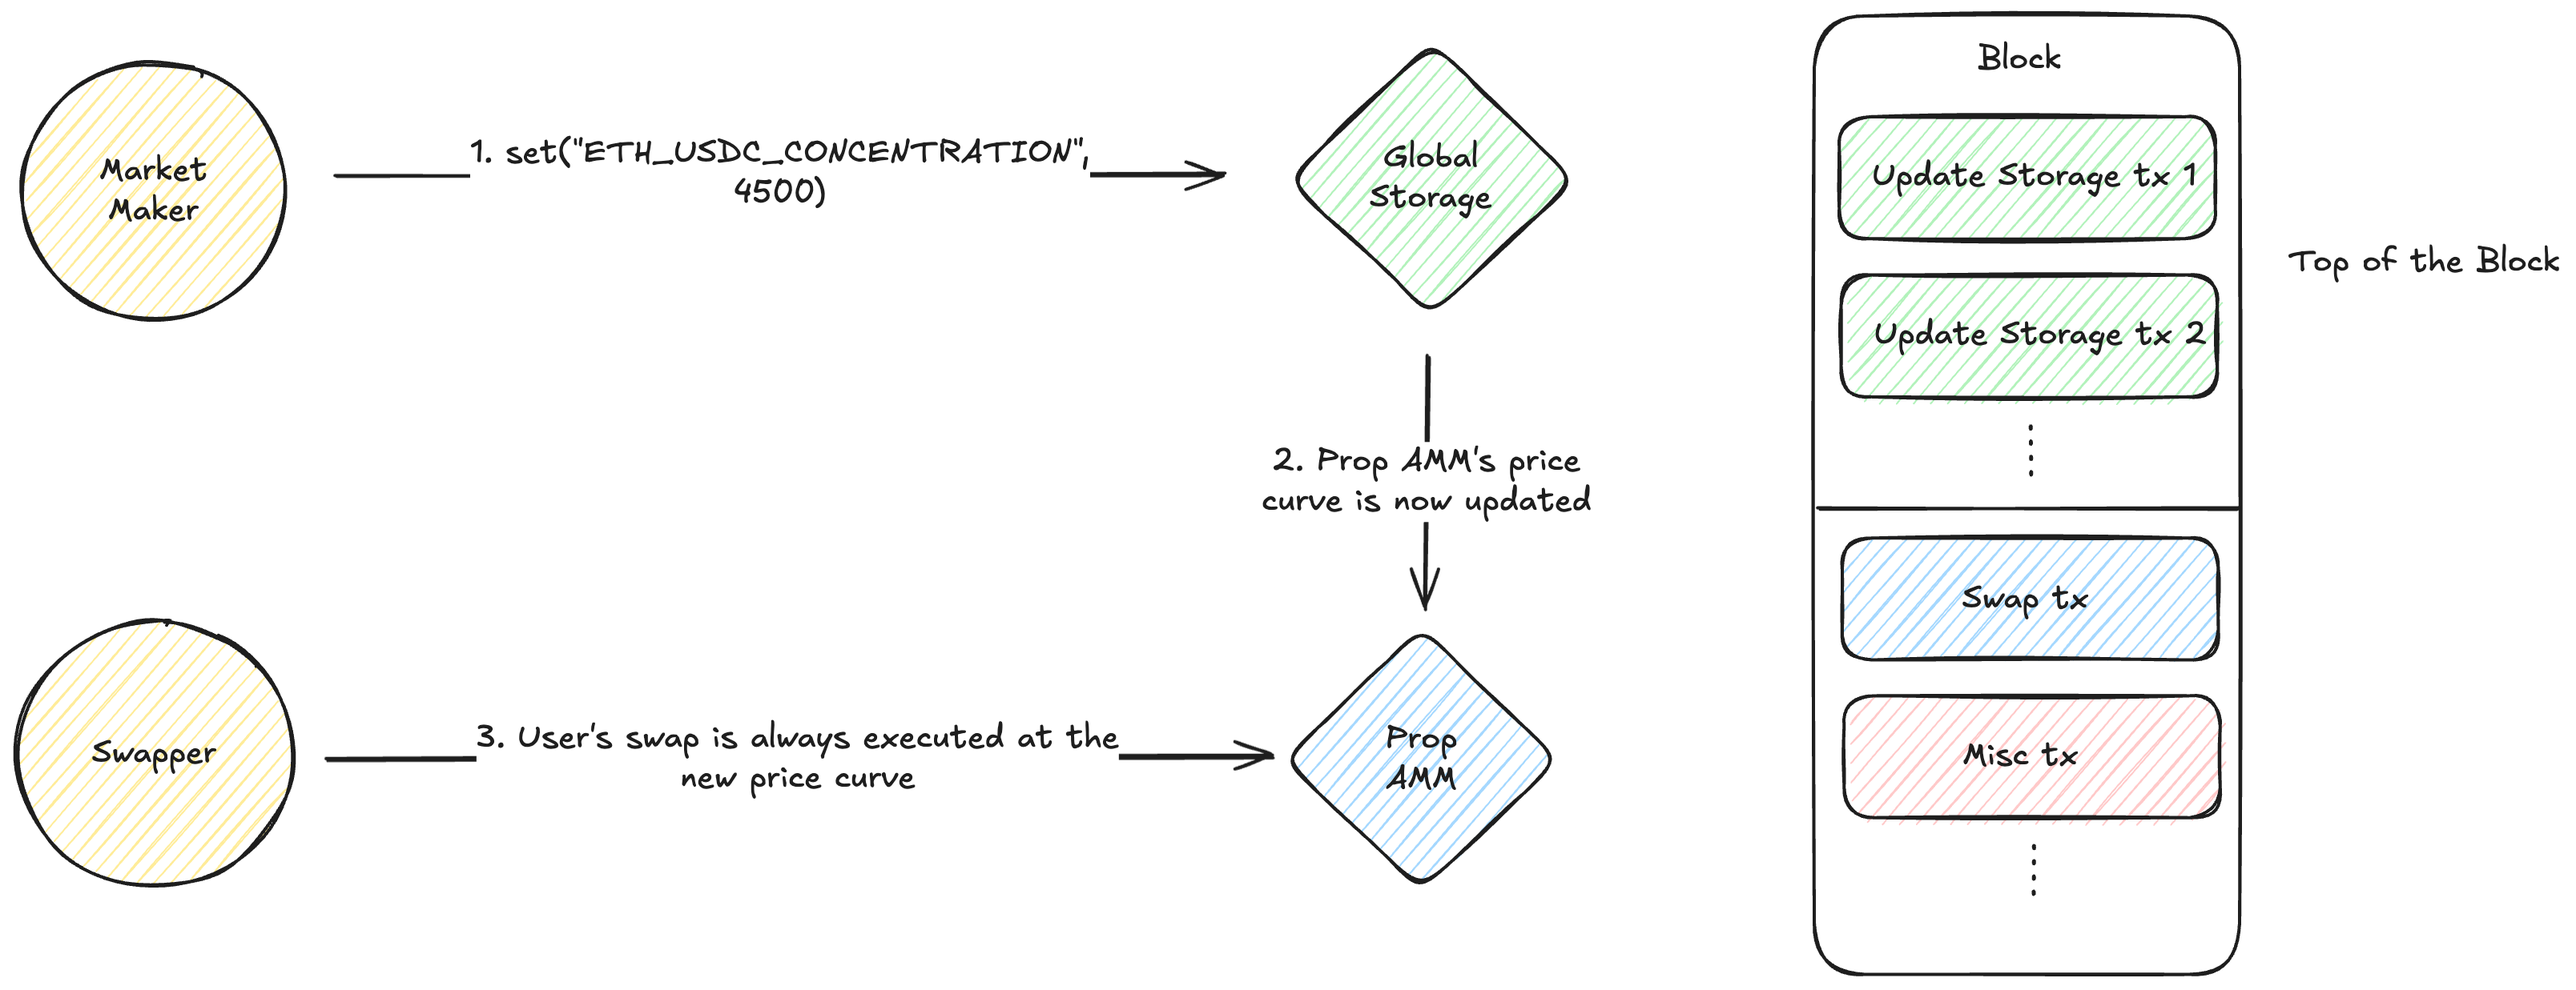
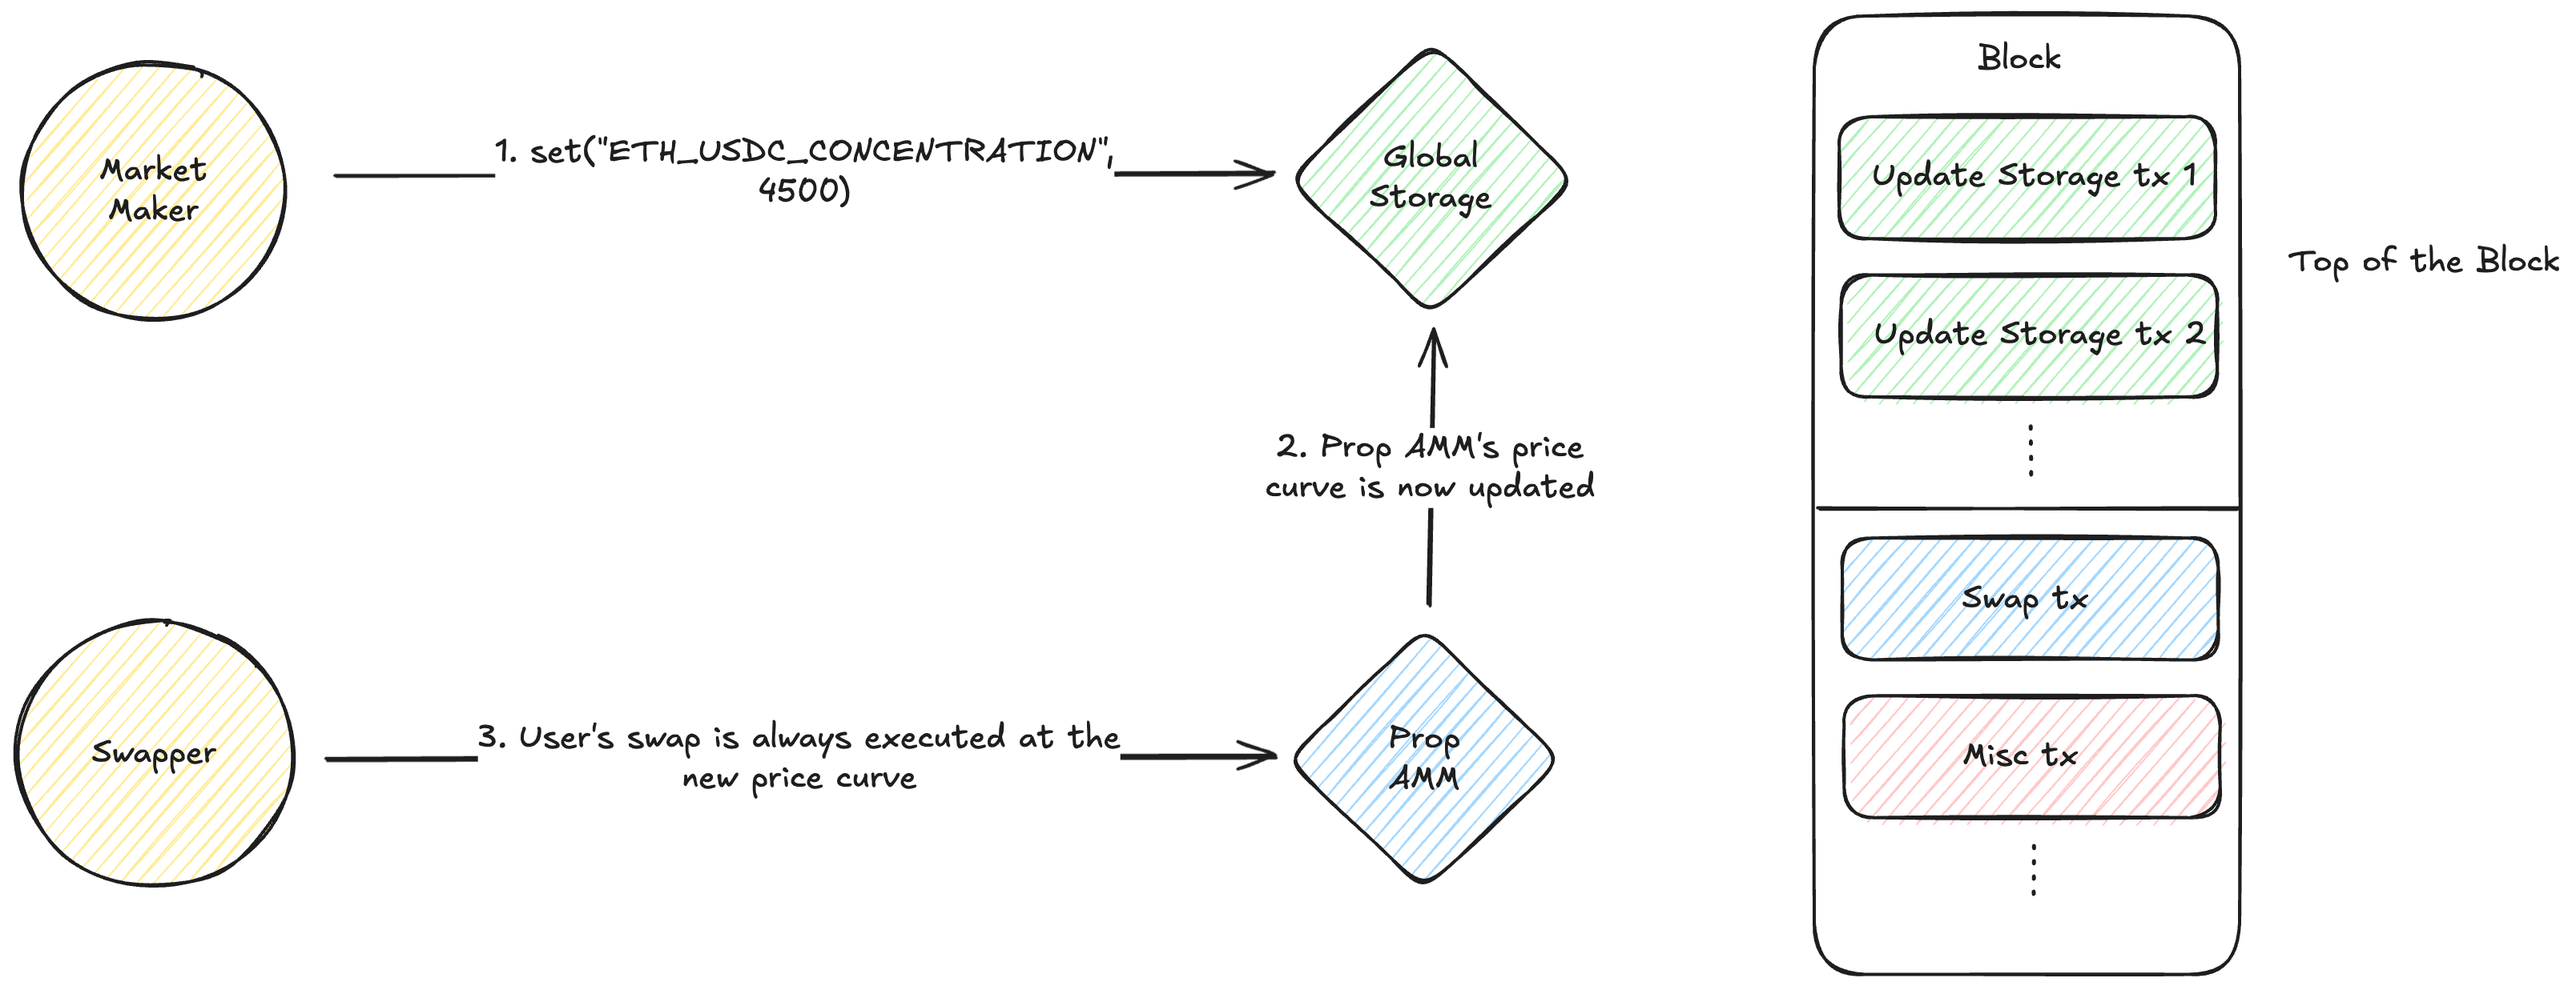
update docs

diff --git a/README.md b/README.md
@@ -1,14 +1,16 @@
 ## Global Storage
 
-Neutral, permissionless, namespaced key-value store intended to enable Top-of-Block (ToB) oracle updates. Writers publish values under their own address; readers fetch by `(owner, key)` and can enforce freshness via last-updated metadata.
+A neutral, permissionless, key-value store that enables high-performance, onchain market making on Layer 2 EVM chains by providing a mechanism for cheap, Top-of-Block (ToB) oracle updates.
 
 ![image info](./diagram.png)
 
 ### Why ToB?
 
-With a builder that treats `to == GlobalStorage` transactions as ToB, latency-sensitive oracle updates can land at the top of the block without allowlists or privileged keys.
+In the context of Prop AMMs, putting update transactions at the Top of Block ensures that all swap transactions in the block use the freshest price curve.
 
-This protects market makers from toxic traders who may attempt to front-run the Prop AMM's price curve update by allowing the market maker to cheaply land price curve updates at the top of the block, resulting in the market maker being able to provide tighter quotes.
+This protects market makers from toxic traders who may attempt to front-run the Prop AMM's price curve update, by allowing the market maker to cheaply land price curve updates at the top of the block, resulting in the market maker being able to provide tighter quotes.
+
+With a builder that treats `to == GlobalStorage` transactions as ToB, latency-sensitive oracle updates can land at the top of the block without allowlists or privileged keys.
 
 ### Core Idea
 
